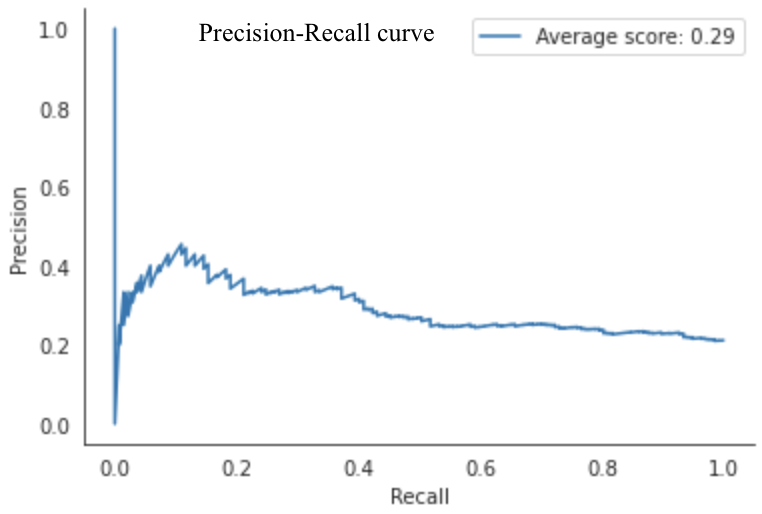
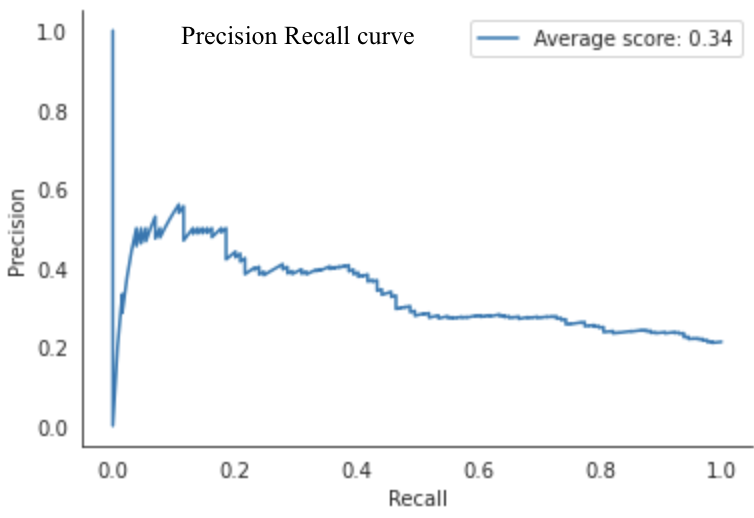
Update FDA submission with model diagram and performance metrics

diff --git a/FDA_Submission_Template.md b/FDA_Submission_Template.md
@@ -47,7 +47,7 @@ The device could assist Radiologists to detect Pneumonia in patients and lower t
 
 ### 2. Algorithm Design and Function
 
-<< Insert Algorithm Flowchart >>
+<img src="images/workflow_diagram.drawio.png">
 
 **DICOM Checking Steps:**
 - Modality == 'DX' (Digital Radiography)
@@ -154,7 +154,7 @@ _________________________________________________________________
 <img src="images/precision-recall-curve.png" height="180">
 
 #### Final Threshold and Explanation
-Threshold=0.13216244
+Threshold=0.12956019
 
 <img src="images/f1-score.png" height="180">
 
@@ -163,18 +163,18 @@ The F1 score chart has a U-shape between thresholds 0.1 and 0.85. As the model i
 #### Performance on validation set
 <img src="images/cm-validation.png" height="180">
 
-f1-score: 0.37
-Recall: 0.7
+f1-score: 0.40
+Recall: 0.72
 Precision: 0.25
-Specificity: 0.48
+Specificity: 0.53
 
 #### Performance on test set
 <img src="images/cm-test.png" height="180">
 
-f1-score: 0.39
+f1-score: 0.41
 Recall: 0.73
-Precision: 0.27
-Specificity: 0.49
+Precision: 0.28
+Specificity: 0.54
 
 
 ### 4. Databases
